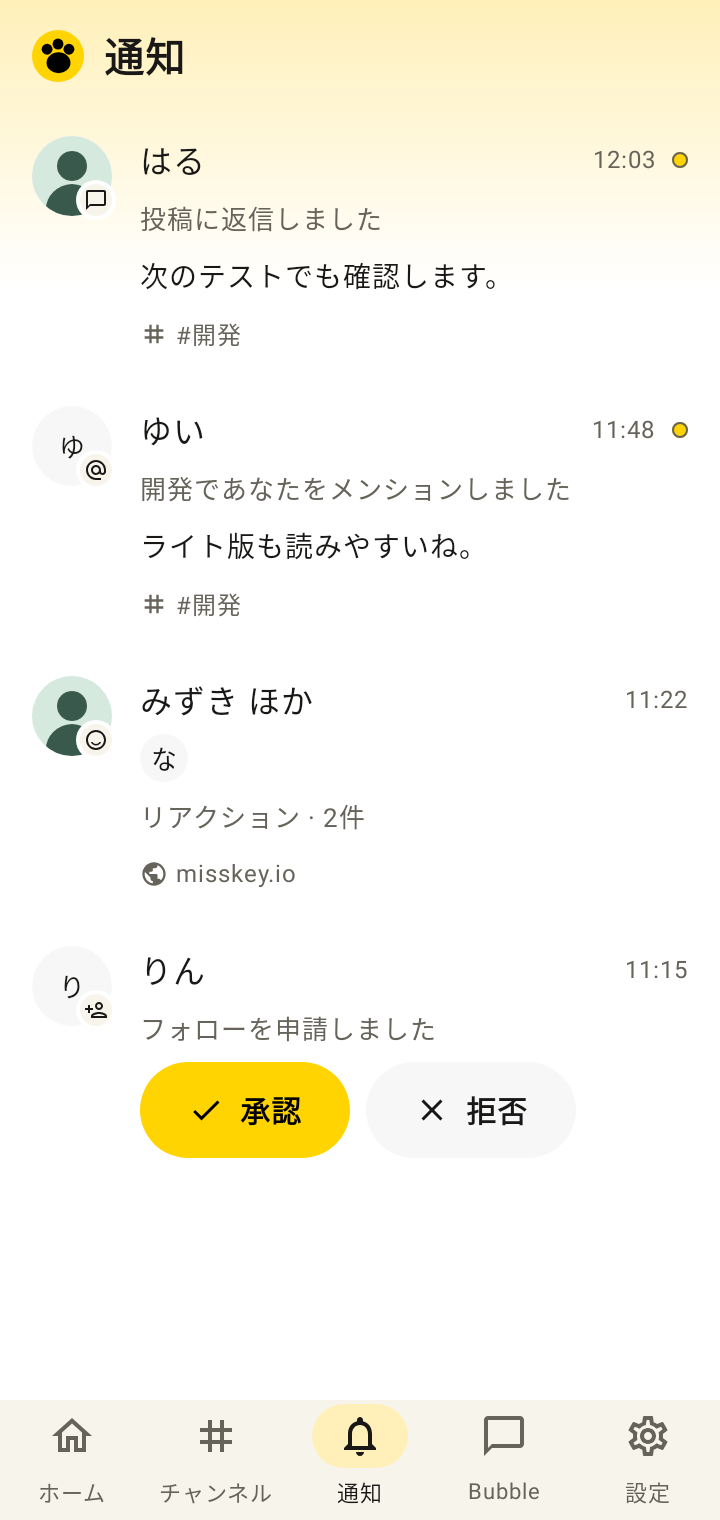
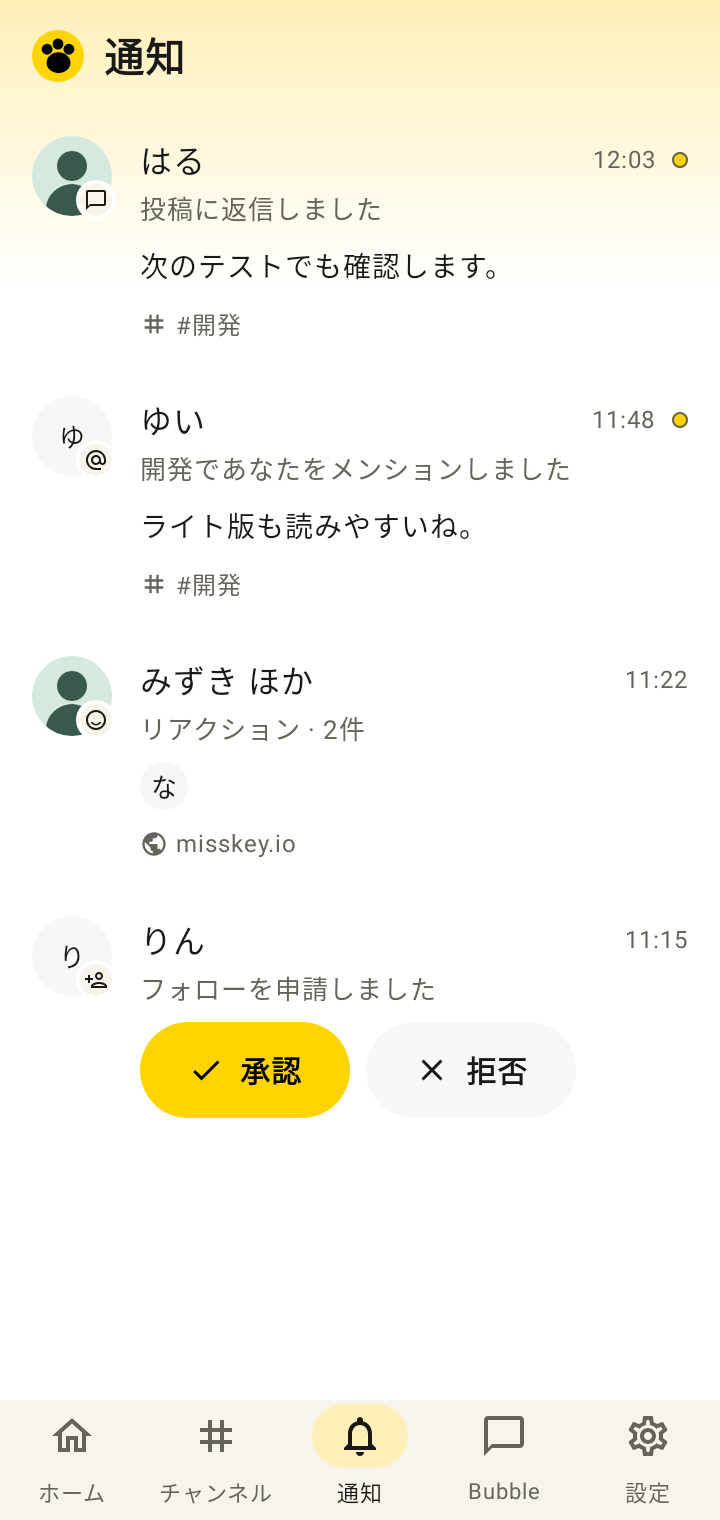
Tighten notification author and action spacing

diff --git a/frontend-compose/androidApp/src/main/kotlin/zoo/android/ui/NotificationPage.kt b/frontend-compose/androidApp/src/main/kotlin/zoo/android/ui/NotificationPage.kt
@@ -97,16 +97,19 @@ internal fun NotificationPage(
                     ) { UiGlyph(item.kind.activityIcon(), colors.foreground, iconSize = 12.dp) }
                 }
                 Column(Modifier.weight(1f), verticalArrangement = Arrangement.spacedBy(5.dp)) {
-                    Row(horizontalArrangement = Arrangement.spacedBy(8.dp), verticalAlignment = Alignment.CenterVertically) {
-                        val author = item.actors.firstOrNull()?.name.orEmpty()
-                        Text(if (item.actors.size > 1) "$author ほか" else author, Modifier.weight(1f),
-                            color = colors.foreground, fontWeight = AndroidWeights.userName, maxLines = 1,
-                            overflow = TextOverflow.Ellipsis)
-                        Text(item.time, color = colors.secondary, fontSize = 12.sp)
-                        if (item.unread) Box(
-                            Modifier.size(8.dp).background(colors.accent, CircleShape).border(1.dp, colors.secondary, CircleShape)
-                                .semantics { contentDescription = "未読" },
-                        )
+                    Column {
+                        Row(horizontalArrangement = Arrangement.spacedBy(8.dp), verticalAlignment = Alignment.CenterVertically) {
+                            val author = item.actors.firstOrNull()?.name.orEmpty()
+                            Text(if (item.actors.size > 1) "$author ほか" else author, Modifier.weight(1f),
+                                color = colors.foreground, fontWeight = AndroidWeights.userName, maxLines = 1,
+                                overflow = TextOverflow.Ellipsis)
+                            Text(item.time, color = colors.secondary, fontSize = 12.sp)
+                            if (item.unread) Box(
+                                Modifier.size(8.dp).background(colors.accent, CircleShape).border(1.dp, colors.secondary, CircleShape)
+                                    .semantics { contentDescription = "未読" },
+                            )
+                        }
+                        Text(item.summary, color = colors.secondary, fontSize = 13.sp)
                     }
                     if (item.actors.size > 1) {
                         LazyRow(horizontalArrangement = Arrangement.spacedBy(4.dp)) {
@@ -115,7 +118,6 @@ internal fun NotificationPage(
                             }
                         }
                     }
-                    Text(item.summary, color = colors.secondary, fontSize = 13.sp)
                     item.detail?.let {
                         Text(formatEntry(it), color = colors.foreground, fontSize = 14.sp,
                             maxLines = 3, overflow = TextOverflow.Ellipsis)
